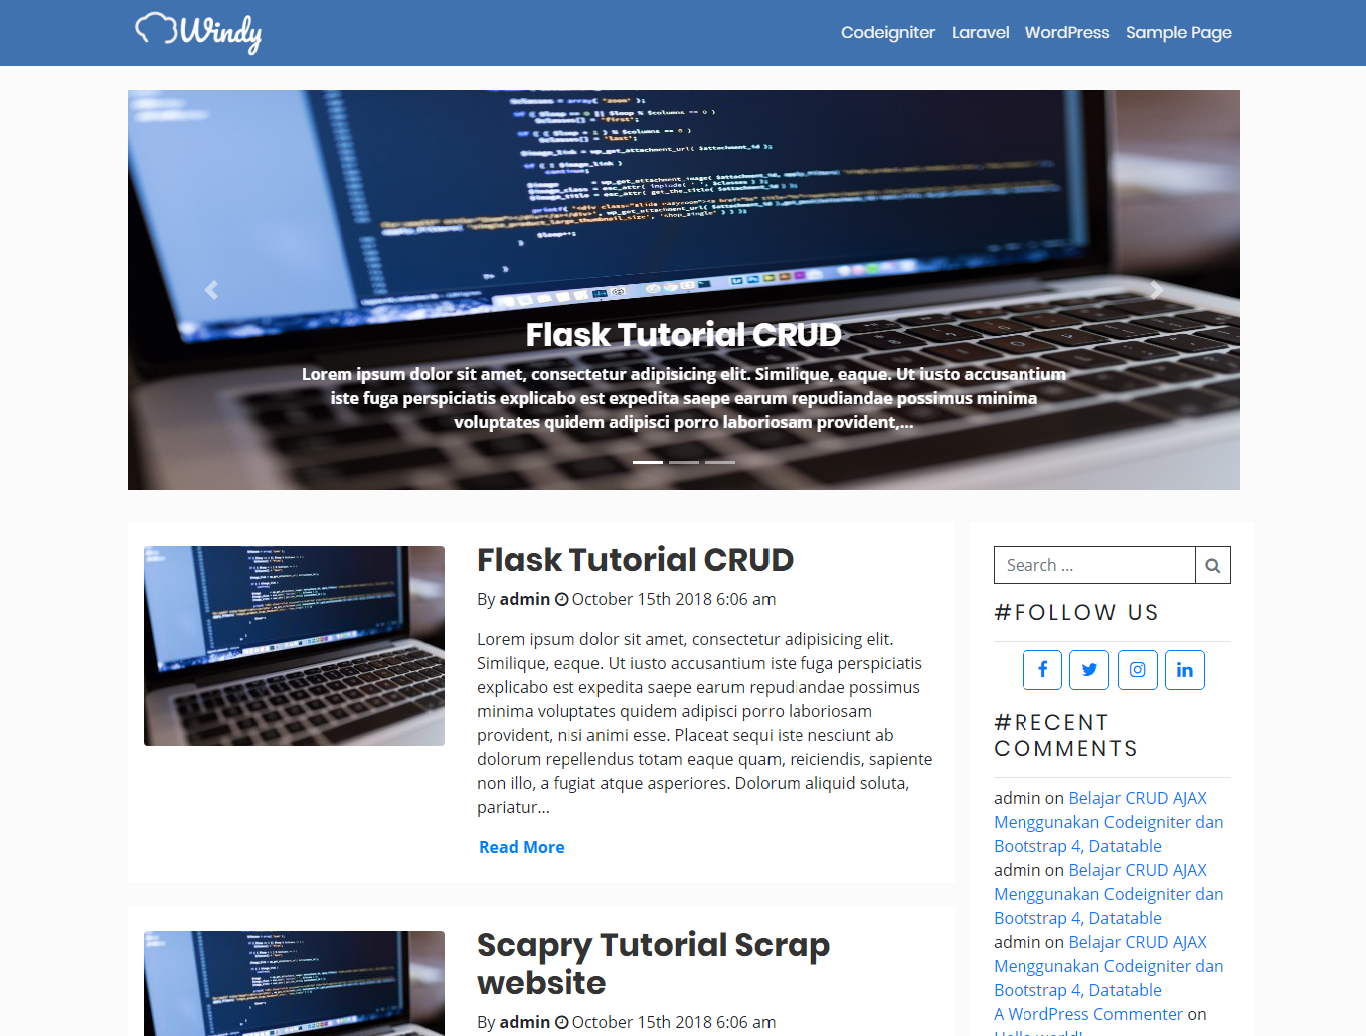
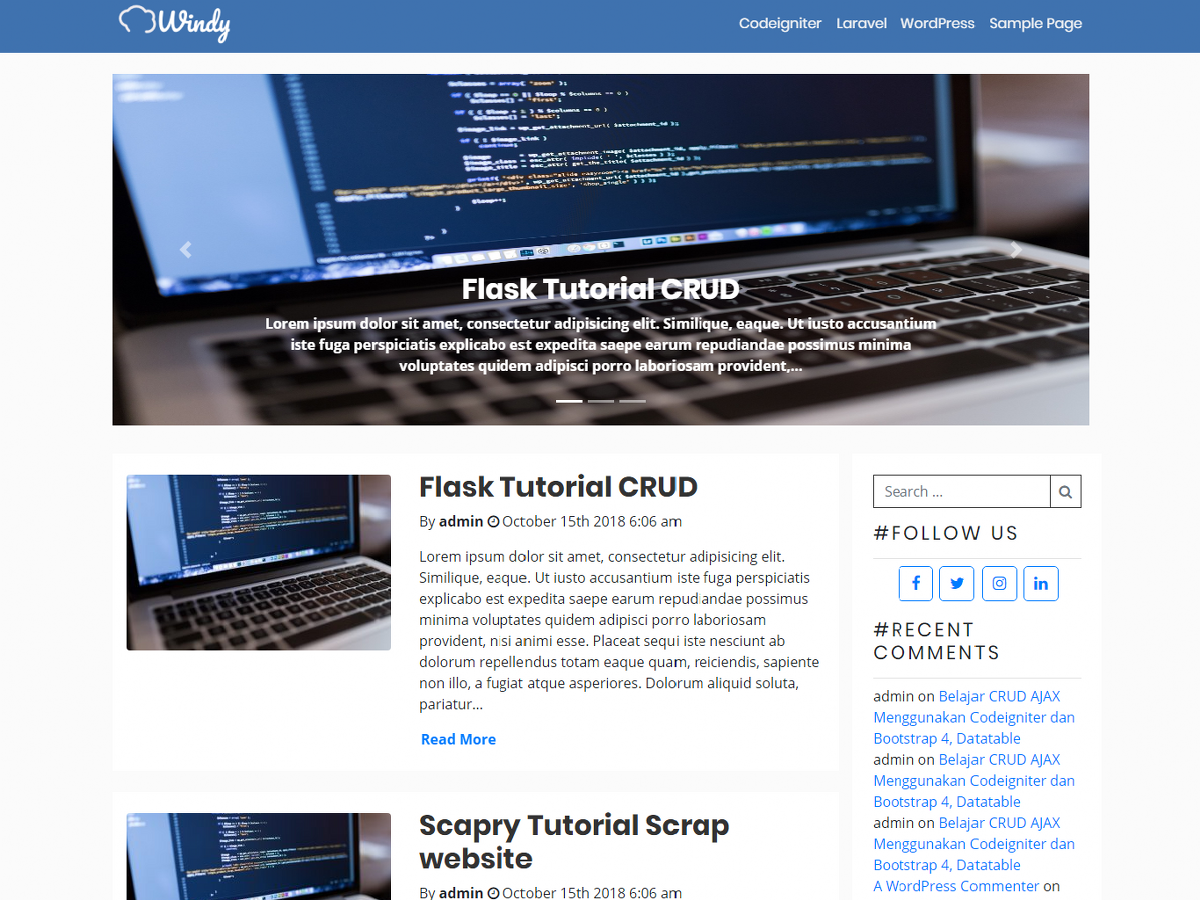
ganti readme.txt dan screenshot

diff --git a/style.css b/style.css
@@ -3,7 +3,7 @@ Theme Name: Windy
 Author: Mahmudinm
 Author URI: http://mahmudinm.github.io
 Description: Windy Is for blogging minimalist
-Version: 1.1.0
+Version: 1.2.1
 License: GNU General Public License v2 or later
 License URI: LICENSE
 Text Domain: windy
